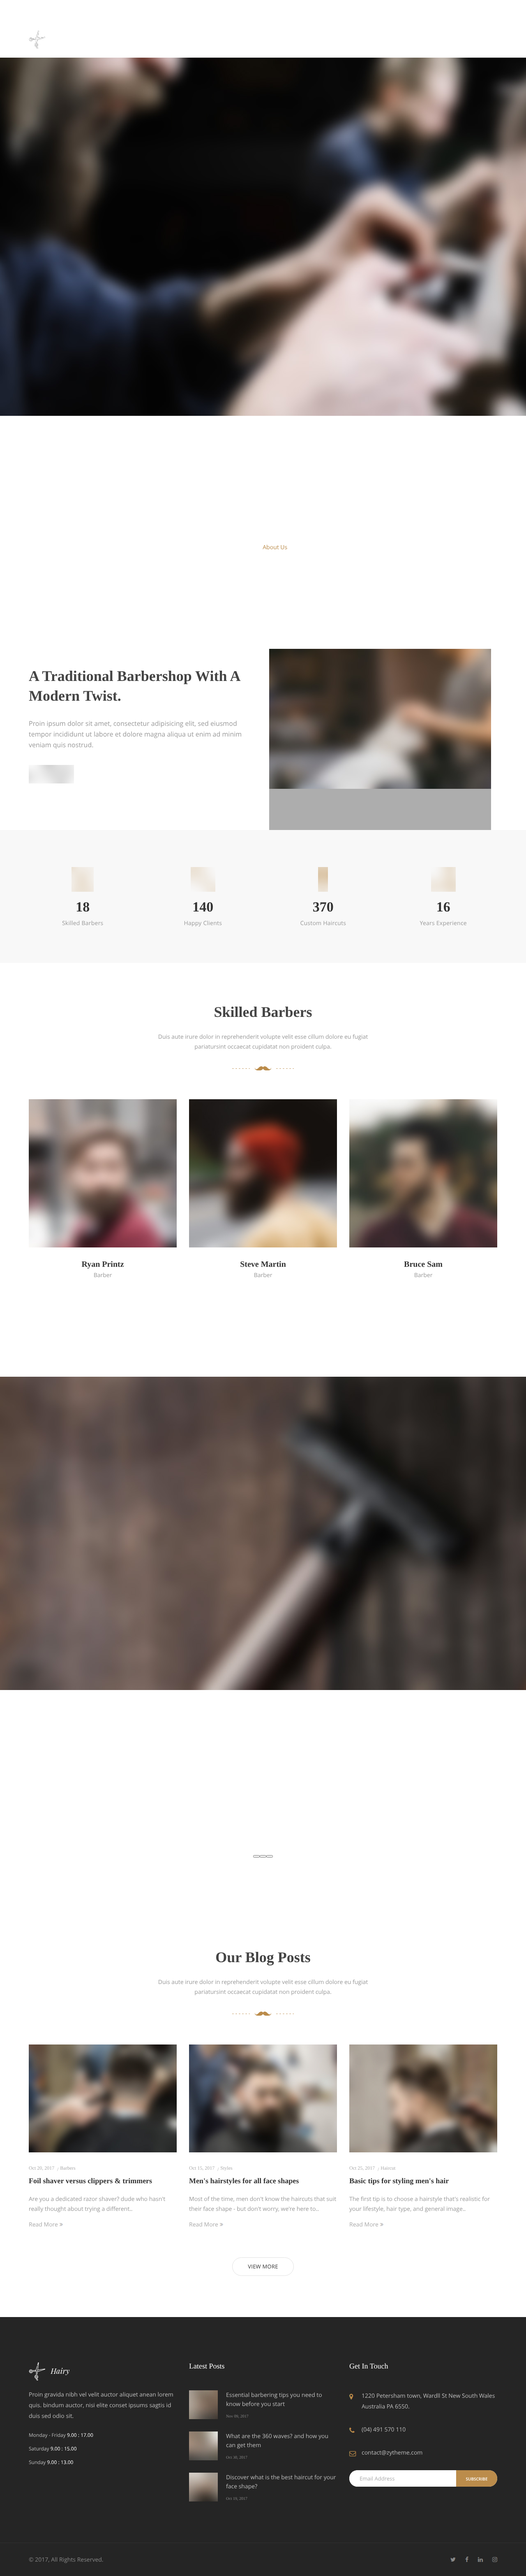
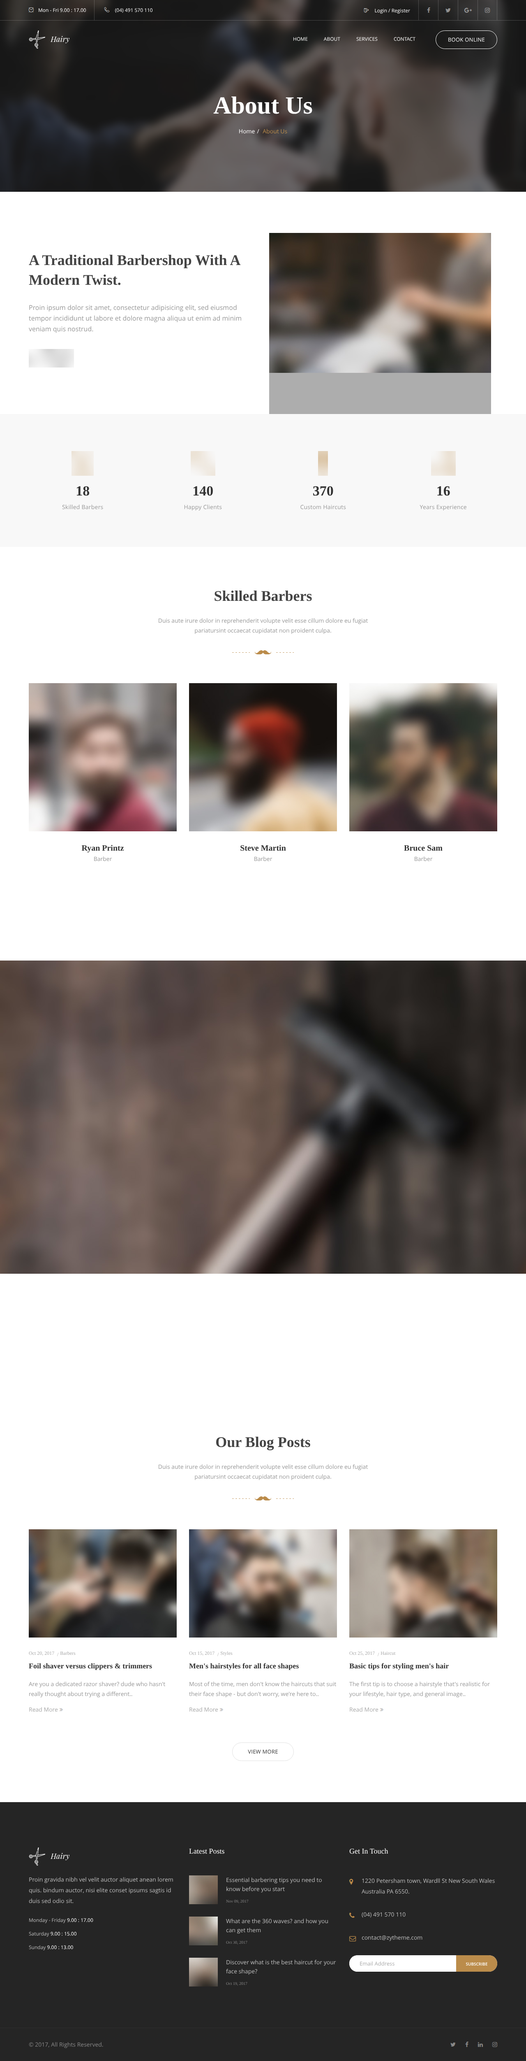
fix(css): Fix page-title hero section layout and bg-section styling

diff --git a/ui/scripts/compare-css.ts b/ui/scripts/compare-css.ts
@@ -1,0 +1,198 @@
+/**
+ * CSS Comparison Script: Compare computed styles between original HTML and React
+ */
+
+import { chromium } from 'playwright'
+import * as fs from 'fs'
+import * as path from 'path'
+import { fileURLToPath } from 'url'
+
+const __filename = fileURLToPath(import.meta.url)
+const __dirname = path.dirname(__filename)
+
+const ORIGINAL_URL = 'http://localhost:8080/page-about-us.html'
+const REACT_URL = 'http://localhost:6006/iframe.html?id=pages-aboutuspage--full-page&viewMode=story'
+
+interface StyleComparison {
+  selector: string
+  property: string
+  original: string
+  react: string
+  match: boolean
+}
+
+async function getComputedStyles(page: any, selector: string, properties: string[]) {
+  return await page.evaluate(
+    ({ sel, props }: { sel: string; props: string[] }) => {
+      const el = document.querySelector(sel)
+      if (!el) return null
+      const styles = window.getComputedStyle(el)
+      const result: Record<string, string> = {}
+      for (const prop of props) {
+        result[prop] = styles.getPropertyValue(prop)
+      }
+      return result
+    },
+    { sel: selector, props: properties }
+  )
+}
+
+async function getElementInfo(page: any, selector: string) {
+  return await page.evaluate((sel: string) => {
+    const el = document.querySelector(sel)
+    if (!el) return null
+    const rect = el.getBoundingClientRect()
+    const styles = window.getComputedStyle(el)
+    return {
+      exists: true,
+      tagName: el.tagName,
+      className: el.className,
+      id: el.id,
+      bounds: { width: rect.width, height: rect.height, top: rect.top, left: rect.left },
+      computedStyles: {
+        // Layout
+        display: styles.display,
+        position: styles.position,
+        top: styles.top,
+        left: styles.left,
+        right: styles.right,
+        bottom: styles.bottom,
+        margin: styles.margin,
+        marginTop: styles.marginTop,
+        marginBottom: styles.marginBottom,
+        padding: styles.padding,
+        paddingTop: styles.paddingTop,
+        paddingBottom: styles.paddingBottom,
+        width: styles.width,
+        height: styles.height,
+        minHeight: styles.minHeight,
+        maxWidth: styles.maxWidth,
+        // Background
+        backgroundColor: styles.backgroundColor,
+        backgroundImage: styles.backgroundImage,
+        backgroundSize: styles.backgroundSize,
+        backgroundPosition: styles.backgroundPosition,
+        // Typography
+        fontFamily: styles.fontFamily,
+        fontSize: styles.fontSize,
+        fontWeight: styles.fontWeight,
+        lineHeight: styles.lineHeight,
+        color: styles.color,
+        textAlign: styles.textAlign,
+        // Other
+        zIndex: styles.zIndex,
+        overflow: styles.overflow,
+      },
+    }
+  }, selector)
+}
+
+async function main() {
+  const browser = await chromium.launch()
+
+  // Open both pages
+  const originalPage = await browser.newPage()
+  const reactPage = await browser.newPage()
+
+  console.log('Loading original HTML...')
+  await originalPage.goto(ORIGINAL_URL, { waitUntil: 'networkidle' })
+
+  console.log('Loading React Storybook...')
+  await reactPage.goto(REACT_URL, { waitUntil: 'networkidle' })
+  await reactPage.waitForTimeout(3000) // Wait for React to fully render
+
+  // Selectors to compare
+  const selectors = [
+    { name: 'Page Title Section', selector: '#page-title, .page-title' },
+    { name: 'Page Title Container', selector: '#page-title .container, .page-title .container' },
+    { name: 'Title Wrapper', selector: '.page-title .title, #page-title .title' },
+    { name: 'Title Heading', selector: '.page-title h1, .title--heading h1' },
+    { name: 'Breadcrumb', selector: '.breadcrumb' },
+    { name: 'Background Section', selector: '.bg-section' },
+    { name: 'Background Image', selector: '.bg-section img' },
+    { name: 'Header', selector: 'header, .header' },
+    { name: 'Navbar', selector: '.navbar' },
+  ]
+
+  console.log('\n' + '='.repeat(80))
+  console.log('CSS COMPARISON REPORT: PageTitleSection')
+  console.log('='.repeat(80))
+
+  for (const { name, selector } of selectors) {
+    console.log(`\n### ${name} (${selector})`)
+    console.log('-'.repeat(60))
+
+    const originalInfo = await getElementInfo(originalPage, selector)
+    const reactInfo = await getElementInfo(reactPage, selector)
+
+    if (!originalInfo) {
+      console.log('  ❌ NOT FOUND in original')
+      continue
+    }
+    if (!reactInfo) {
+      console.log('  ❌ NOT FOUND in React')
+      continue
+    }
+
+    // Compare bounds
+    console.log('\n  📐 DIMENSIONS:')
+    console.log(`     Original: ${originalInfo.bounds.width.toFixed(0)}x${originalInfo.bounds.height.toFixed(0)} @ (${originalInfo.bounds.left.toFixed(0)}, ${originalInfo.bounds.top.toFixed(0)})`)
+    console.log(`     React:    ${reactInfo.bounds.width.toFixed(0)}x${reactInfo.bounds.height.toFixed(0)} @ (${reactInfo.bounds.left.toFixed(0)}, ${reactInfo.bounds.top.toFixed(0)})`)
+
+    // Compare key styles
+    console.log('\n  🎨 KEY STYLES:')
+    const stylesToCheck = [
+      'display',
+      'position',
+      'marginTop',
+      'paddingTop',
+      'paddingBottom',
+      'height',
+      'minHeight',
+      'backgroundColor',
+      'backgroundImage',
+      'backgroundSize',
+      'fontSize',
+      'fontWeight',
+      'color',
+      'zIndex',
+    ]
+
+    for (const prop of stylesToCheck) {
+      const orig = (originalInfo.computedStyles as any)[prop] || 'N/A'
+      const react = (reactInfo.computedStyles as any)[prop] || 'N/A'
+      const match = orig === react
+      const icon = match ? '✓' : '✗'
+      if (!match) {
+        console.log(`     ${icon} ${prop}:`)
+        console.log(`        Original: ${orig}`)
+        console.log(`        React:    ${react}`)
+      }
+    }
+  }
+
+  // Take side-by-side screenshots of just the page-title section
+  console.log('\n\n📸 Taking section screenshots...')
+
+  const originalPageTitle = await originalPage.$('#page-title, .page-title')
+  const reactPageTitle = await reactPage.$('#page-title, .page-title')
+
+  if (originalPageTitle) {
+    await originalPageTitle.screenshot({
+      path: path.join(__dirname, '../../ttmp/2026/01/18/HAIRY-AUDIT--aboutuspage-react-port-visual-comparison-audit/sources/css-compare-original-pagetitle.png'),
+    })
+    console.log('  ✓ Saved original page-title screenshot')
+  }
+
+  if (reactPageTitle) {
+    await reactPageTitle.screenshot({
+      path: path.join(__dirname, '../../ttmp/2026/01/18/HAIRY-AUDIT--aboutuspage-react-port-visual-comparison-audit/sources/css-compare-react-pagetitle.png'),
+    })
+    console.log('  ✓ Saved React page-title screenshot')
+  }
+
+  await browser.close()
+  console.log('\n✅ Comparison complete!')
+}
+
+main().catch(console.error)

diff --git a/ui/.storybook/preview-head.html b/ui/.storybook/preview-head.html
@@ -1,3 +1,68 @@
 <link rel="stylesheet" href="/hairy/assets/css/external.css" />
 <link rel="stylesheet" href="/hairy/assets/css/bootstrap.min.css" />
 <link rel="stylesheet" href="/hairy/assets/css/style.css" />
+<style>
+/* React component fixes - these override issues with the original CSS when used with React component structure */
+
+/* Fix for page-title hero overlap with fixed header */
+.page-with-hero #page-title,
+.page-with-hero .page-title {
+  margin-top: -140px;
+  position: relative;
+  z-index: 1;
+}
+
+/* Fix for bg-section using img instead of background-image CSS property */
+.page-title .bg-section {
+  position: absolute;
+  top: 0;
+  left: 0;
+  right: 0;
+  bottom: 0;
+  width: 100%;
+  height: 100%;
+  z-index: -2;
+}
+
+.page-title .bg-section img {
+  width: 100%;
+  height: 100%;
+  object-fit: cover;
+}
+
+/* Embla Carousel styles for testimonials */
+.embla__container {
+  display: flex;
+}
+
+.embla__slide {
+  flex: 0 0 100%;
+  min-width: 0;
+}
+
+.carousel-dots-nav {
+  display: flex;
+  justify-content: center;
+  gap: 8px;
+  margin-top: 30px;
+}
+
+.carousel-dots-nav .dot {
+  width: 10px;
+  height: 10px;
+  border-radius: 50%;
+  background: rgba(255, 255, 255, 0.4);
+  border: none;
+  cursor: pointer;
+  padding: 0;
+  transition: background 0.3s ease;
+}
+
+.carousel-dots-nav .dot:hover {
+  background: rgba(255, 255, 255, 0.7);
+}
+
+.carousel-dots-nav .dot.active {
+  background: #ffffff;
+}
+</style>

diff --git a/ui/src/styles/theme.css b/ui/src/styles/theme.css
@@ -126,9 +126,31 @@ body {
 }
 
 /* Fix for page-title hero overlap with fixed header */
-.page-with-hero #page-title {
+/* The original CSS uses .header-transparent + .page-title but React's component structure
+   breaks this adjacent sibling relationship. We apply the same styles directly. */
+.page-with-hero #page-title,
+.page-with-hero .page-title {
   margin-top: -140px;
   position: relative;
+  z-index: 1;
+}
+
+/* Fix for bg-section using <img> instead of background-image CSS property */
+.page-title .bg-section {
+  position: absolute;
+  top: 0;
+  left: 0;
+  right: 0;
+  bottom: 0;
+  width: 100%;
+  height: 100%;
+  z-index: -2;
+}
+
+.page-title .bg-section img {
+  width: 100%;
+  height: 100%;
+  object-fit: cover;
 }
 
 /* Embla Carousel styles for testimonials */
